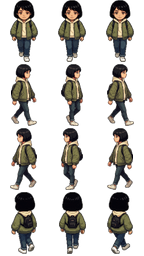
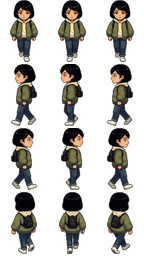
Fix swapped left/right walk rows and undersized side view for linxia

Changed region(s): [[0.7222, 0.25, 0.9444, 0.75], [0.0556, 0.25, 0.2778, 0.75], [0.4167, 0.25, 0.5833, 0.75]]

diff --git a/AGENTS.md b/AGENTS.md
@@ -49,6 +49,8 @@ AI art and hand-written map data drift apart easily. Most bugs so far come from 
 ## Conventions added by the fixes
 
 - Walk sheets are built from one 3-frame strip per direction (`assets/strips/`) and stacked by a `compose` item in the manifest. Rows: down, left, right, up. Mirror a side strip at build time, never at runtime.
+- Gemini ignores "walking left" and draws side strips facing right most of the time. Name side strips `_side`, prompt for RIGHT, check the raw, and mirror it for the left row.
+- Separately generated strips drift in proportions (a realistic side view next to a chibi front view looks much smaller). Pass the finished down strip as a second ref and ask for the same head size and height.
 - Gemini copies the layout of a reference design sheet into its output (extra rows of sitting poses). Use `crop` to keep only the band you asked for, or drop the ref and describe the character in text.
 - Every story trigger has `face` (the direction the player must face to use it). `lint:story` fails if a trigger has no `face` or no walkable spot in front of it.
 - Canopies, roofs and other things actors walk behind go in the `foreground` layer: a polygon hugging the object plus `baseline` (its ground y). Do not use loose rectangles; they hide actors on open ground.
